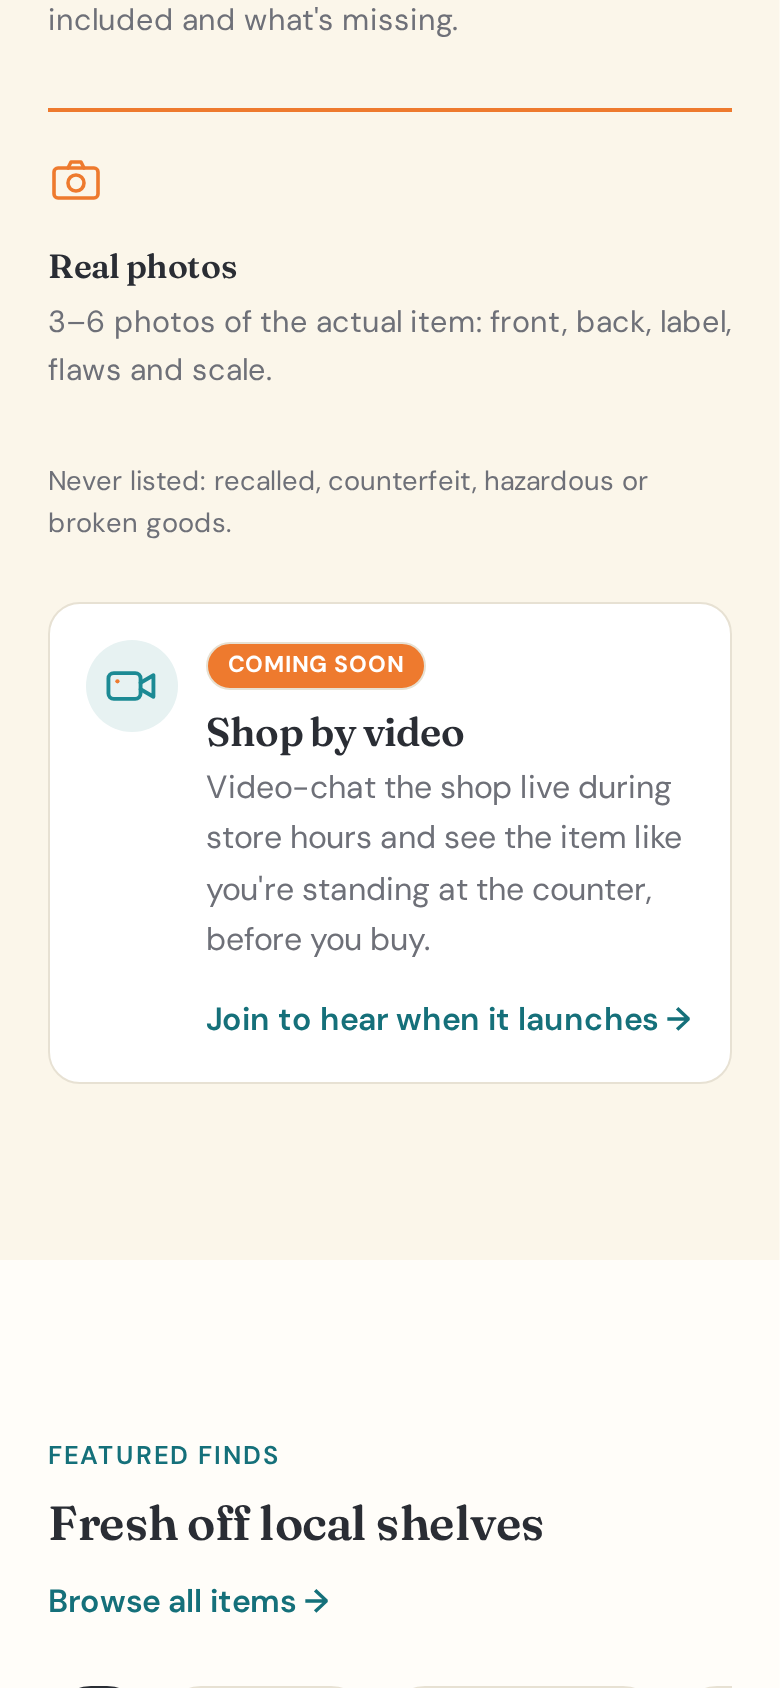
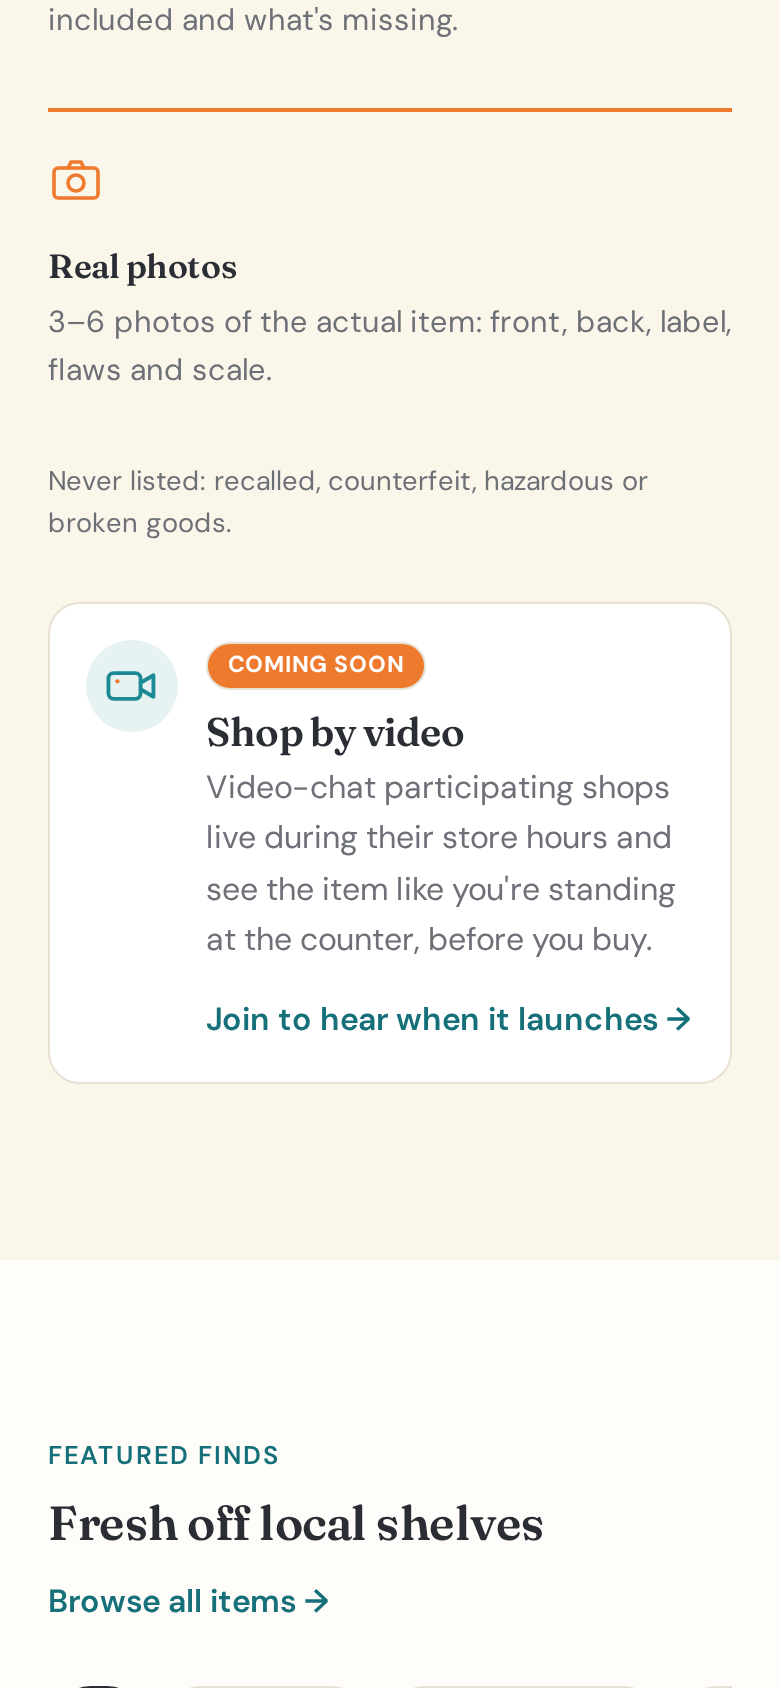
Shop by video teaser: mention participating shops (opt-in)

Changed region(s): [[0.2462, 0.4621, 0.8615, 0.5853]]

diff --git a/js/app.js b/js/app.js
@@ -286,12 +286,12 @@ TS.videoTeaser = function(){
     '<div class="vid-teaser-ico">'+TS.videoIcon(30)+'</div>'+
     '<div class="vid-teaser-body">'+TS.soonPill()+
       '<h3>Shop by video</h3>'+
-      '<p>Video-chat the shop live during store hours and see the item like you\'re standing at the counter, before you buy.</p></div>'+
+      '<p>Video-chat participating shops live during their store hours and see the item like you\'re standing at the counter, before you buy.</p></div>'+
     '<a class="link-arrow vid-teaser-link" href="#join" data-join>Join to hear when it launches →</a>'+
   '</div>';
 };
 TS.videoLine = function(){
-  return '<div class="vid-line">'+TS.videoIcon(20)+'<p>'+TS.soonPill()+' <strong>Shop by video:</strong> video-chat the shop live during store hours and see this item like you\'re in the store. <a href="#join" data-join>Get notified</a></p></div>';
+  return '<div class="vid-line">'+TS.videoIcon(20)+'<p>'+TS.soonPill()+' <strong>Shop by video:</strong> at participating shops, video-chat the shop live during store hours and see this item like you\'re in the store. <a href="#join" data-join>Get notified</a></p></div>';
 };
 
 /* ---------- chrome ---------- */
